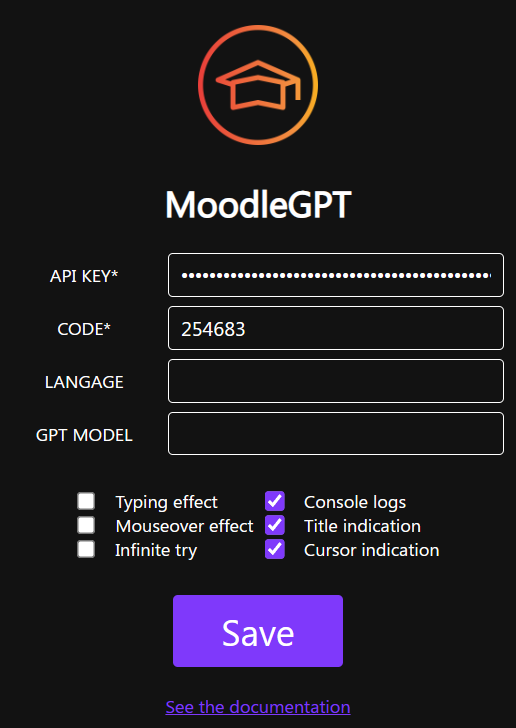
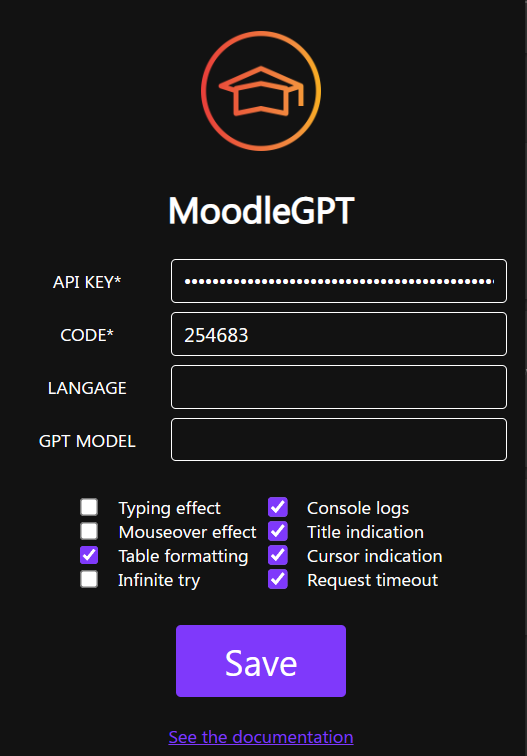
v1.0.0

diff --git a/extension/moodle-gpt.js b/extension/moodle-gpt.js
@@ -77,12 +77,15 @@
    */
   function getChatGPTResponse(config, question) {
       return __awaiter(this, void 0, void 0, function* () {
+          const controller = new AbortController();
+          const timeoutControler = setTimeout(() => controller.abort(), 10000);
           const req = yield fetch("https://api.openai.com/v1/chat/completions", {
               method: "POST",
               headers: {
                   "Content-Type": "application/json",
                   Authorization: `Bearer ${config.apiKey}`,
               },
+              signal: config.timeout ? controller.signal : null,
               body: JSON.stringify({
                   model: config.model && config.model !== "" ? config.model : "gpt-3.5-turbo",
                   messages: [{ role: "user", content: question }],
@@ -92,10 +95,39 @@
                   stop: null,
               }),
           });
+          clearTimeout(timeoutControler);
           const rep = yield req.json();
           const response = rep.choices[0].message.content;
           return normalizeText(response);
       });
+  }
+
+  /**
+   * Convert table to representating string table
+   * @param table
+   * @returns
+   */
+  function htmlTableToString(table) {
+      const tab = [];
+      const lines = Array.from(table.querySelectorAll("tr"));
+      const maxColumnsLength = [];
+      lines.map((line) => {
+          const cells = Array.from(line.querySelectorAll("td, th"));
+          const cellsContent = cells.map((cell, index) => {
+              var _a;
+              const content = (_a = cell.textContent) === null || _a === void 0 ? void 0 : _a.trim();
+              maxColumnsLength[index] = Math.max(maxColumnsLength[index] || 0, content.length || 0);
+              return content;
+          });
+          tab.push(cellsContent);
+      });
+      const lineSeparationSize = maxColumnsLength.reduce((a, b) => a + b) + tab[0].length + 1;
+      const lineSeparation = "\n" + Array(lineSeparationSize).fill("-").join("") + "\n";
+      const mappedTab = tab.map((line) => {
+          const mappedLine = line.map((content, index) => content.padEnd(maxColumnsLength[index], "\u00A0"));
+          return "|" + mappedLine.join("|") + "|";
+      });
+      return lineSeparation + mappedTab.join(lineSeparation) + lineSeparation;
   }
 
   /**
@@ -104,9 +136,17 @@
    * @param question
    * @returns
    */
-  function normalizeQuestion(langage, question) {
-      const finalQuestion = `Give a short response as possible for this question, reply in ${langage && langage !== ""
-        ? 'this langage "' + langage + '"'
+  function normalizeQuestion(config, questionContainer) {
+      let question = questionContainer.textContent;
+      if (config.table) {
+          //make table more readable for chat-gpt
+          const tables = questionContainer.querySelectorAll("table");
+          for (const table of tables) {
+              question = question.replace(table.textContent, htmlTableToString(table));
+          }
+      }
+      const finalQuestion = `Give a short response as possible for this question, reply in ${config.langage && config.langage !== ""
+        ? 'this langage "' + config.langage + '"'
         : "the following question langage"} and only show the result: 
       ${question} 
       (If you have to choose between multiple results only show the corrects one, separate them with new line and take the same text as the question)`;
@@ -297,15 +337,21 @@
           if (config.cursor)
               hiddenButton.style.cursor = "wait";
           (_a = form.querySelector(".accesshide")) === null || _a === void 0 ? void 0 : _a.remove();
-          const question = normalizeQuestion(config.langage, form.textContent);
+          const question = normalizeQuestion(config, form);
           const inputList = form.querySelectorAll(query);
-          const response = yield getChatGPTResponse(config, question);
+          const response = yield getChatGPTResponse(config, question).catch((error) => ({
+              error,
+          }));
+          if (config.cursor)
+              hiddenButton.style.cursor = config.infinite ? "pointer" : "initial";
+          if (typeof response === "object" && "error" in response) {
+              console.error(response.error);
+              return;
+          }
           if (config.logs) {
               Logs.question(question);
               Logs.response(response);
           }
-          if (config.cursor)
-              hiddenButton.style.cursor = config.infinite ? "pointer" : "initial";
           const handlers = [
               handleTextbox,
               handleNumber,

diff --git a/src/utils/html-table-to-string.ts b/src/utils/html-table-to-string.ts
@@ -1,0 +1,38 @@
+/**
+ * Convert table to representating string table
+ * @param table
+ * @returns
+ */
+function htmlTableToString(table: HTMLTableElement) {
+  const tab: string[][] = [];
+  const lines = Array.from(table.querySelectorAll("tr"));
+  const maxColumnsLength: number[] = [];
+  lines.map((line) => {
+    const cells = Array.from(line.querySelectorAll("td, th"));
+    const cellsContent = cells.map((cell, index) => {
+      const content = cell.textContent?.trim();
+      maxColumnsLength[index] = Math.max(
+        maxColumnsLength[index] || 0,
+        content.length || 0
+      );
+      return content;
+    });
+    tab.push(cellsContent);
+  });
+
+  const lineSeparationSize =
+    maxColumnsLength.reduce((a, b) => a + b) + tab[0].length + 1;
+  const lineSeparation =
+    "\n" + Array(lineSeparationSize).fill("-").join("") + "\n";
+
+  const mappedTab = tab.map((line) => {
+    const mappedLine = line.map((content, index) =>
+      content.padEnd(maxColumnsLength[index], "\u00A0")
+    );
+    return "|" + mappedLine.join("|") + "|";
+  });
+
+  return lineSeparation + mappedTab.join(lineSeparation) + lineSeparation;
+}
+
+export default htmlTableToString;

diff --git a/src/core/normalize-question.ts b/src/core/normalize-question.ts
@@ -1,5 +1,6 @@
 import Config from "../types/config";
 import normalizeText from "../utils/normalize-text";
+import htmlTableToString from "../utils/html-table-to-string";
 
 /**
  * Normalize the question and add sub informations
@@ -7,10 +8,20 @@ import normalizeText from "../utils/normalize-text";
  * @param question
  * @returns
  */
-function normalizeQuestion(langage: Config["langage"], question: string) {
+function normalizeQuestion(config: Config, questionContainer: HTMLElement) {
+  let question = questionContainer.textContent;
+
+  if (config.table) {
+    //make table more readable for chat-gpt
+    const tables = questionContainer.querySelectorAll("table");
+    for (const table of tables) {
+      question = question.replace(table.textContent, htmlTableToString(table));
+    }
+  }
+
   const finalQuestion = `Give a short response as possible for this question, reply in ${
-    langage && langage !== ""
-      ? 'this langage "' + langage + '"'
+    config.langage && config.langage !== ""
+      ? 'this langage "' + config.langage + '"'
       : "the following question langage"
   } and only show the result: 
       ${question} 

diff --git a/extension/popup/index.js b/extension/popup/index.js
@@ -9,6 +9,8 @@ const inputsCheckbox = [
   "typing",
   "mouseover",
   "infinite",
+  "table",
+  "timeout",
 ];
 
 function showMessage(messageTxt, valide) {
@@ -23,9 +25,10 @@ saveBtn.addEventListener("click", function () {
   const [apiKey, code, langage, model] = inputsText.map((selector) =>
     document.querySelector("#" + selector).value.trim()
   );
-  const [logs, title, cursor, typing, mouseover, infinite] = inputsCheckbox.map(
-    (selector) => document.querySelector("#" + selector).checked
-  );
+  const [logs, title, cursor, typing, mouseover, infinite, table, timeout] =
+    inputsCheckbox.map(
+      (selector) => document.querySelector("#" + selector).checked
+    );
 
   if (!apiKey || !code) {
     showMessage("Please comple all the form");
@@ -49,6 +52,8 @@ saveBtn.addEventListener("click", function () {
       typing,
       mouseover,
       infinite,
+      table,
+      timeout,
     },
   });
 

diff --git a/src/core/reply.ts b/src/core/reply.ts
@@ -26,18 +26,27 @@ async function reply(
 
   form.querySelector(".accesshide")?.remove();
 
-  const question = normalizeQuestion(config.langage, form.textContent);
+  const question = normalizeQuestion(config, form);
   const inputList: NodeListOf<HTMLElement> = form.querySelectorAll(query);
 
-  const response = await getChatGPTResponse(config, question);
+  const response = await getChatGPTResponse(config, question).catch(
+    (error) => ({
+      error,
+    })
+  );
+
+  if (config.cursor)
+    hiddenButton.style.cursor = config.infinite ? "pointer" : "initial";
+
+  if (typeof response === "object" && "error" in response) {
+    console.error(response.error);
+    return;
+  }
 
   if (config.logs) {
     Logs.question(question);
     Logs.response(response);
   }
-
-  if (config.cursor)
-    hiddenButton.style.cursor = config.infinite ? "pointer" : "initial";
 
   const handlers = [
     handleTextbox,

diff --git a/src/core/get-response.ts b/src/core/get-response.ts
@@ -11,12 +11,15 @@ async function getChatGPTResponse(
   config: Config,
   question: string
 ): Promise<string> {
+  const controller = new AbortController();
+  const timeoutControler = setTimeout(() => controller.abort(), 10000);
   const req = await fetch("https://api.openai.com/v1/chat/completions", {
     method: "POST",
     headers: {
       "Content-Type": "application/json",
       Authorization: `Bearer ${config.apiKey}`,
     },
+    signal: config.timeout ? controller.signal : null,
     body: JSON.stringify({
       model:
         config.model && config.model !== "" ? config.model : "gpt-3.5-turbo",
@@ -27,6 +30,7 @@ async function getChatGPTResponse(
       stop: null,
     }),
   });
+  clearTimeout(timeoutControler);
   const rep = await req.json();
   const response = rep.choices[0].message.content;
   return normalizeText(response);

diff --git a/extension/popup/index.html b/extension/popup/index.html
@@ -46,6 +46,10 @@
             <label for="mouseover">Mouseover effect</label>
           </div>
           <div class="line">
+            <input id="table" type="checkbox" checked />
+            <label for="table">Table formatting</label>
+          </div>
+          <div class="line">
             <input id="infinite" type="checkbox" />
             <label for="infinite">Infinite try</label>
           </div>
@@ -62,6 +66,10 @@
           <div class="line">
             <input id="cursor" type="checkbox" checked />
             <label for="cursor">Cursor indication</label>
+          </div>
+          <div class="line">
+            <input id="timeout" type="checkbox" checked />
+            <label for="timeout">Request timeout</label>
           </div>
         </div>
       </div>

diff --git a/src/types/config.d.ts b/src/types/config.d.ts
@@ -9,6 +9,8 @@ type Config = {
   cursor?: boolean;
   logs?: boolean;
   title?: boolean;
+  table?: boolean;
+  timeout?: boolean;
 };
 
 export default Config;

diff --git a/README.md b/README.md
@@ -43,14 +43,27 @@ Type back the <b>code</b> on the keyboard and the code will be removed from the 
 - <b>Cursor indication</b>: show a pointer cursor and a hourglass to know when the request is finished.
 - <b>Title indication</b>: show some informations into the title to know for example if the code have been injected.
   <br/> ![Injected](./assets/title-injected.png)
-- <b>Infinite try</b>: click as much as you want on the question (don't forget to reset the question).
 - <b>Console logs</b>: show logs into the console.
   <br/><img src="./assets/logs.png" alt="Logs" width="250">
+- <b>Request timeout</b>: If the request is too long it will be abort after 10seconds.
 - <b>Typing effect</b>: create a typing effect for text. Type any text and it will be replaced by the correct one. If you want to stop it press <b>Backspace</b> key.
   <br/> ![Typing](./assets/typing.gif)
 - <b>Mouseover effect</b>: you will need to hover (or click for select) the question response to complete it automaticaly.
   <br/> ![Mouseover](./assets/mouseover.gif)
   <br/> ![Mouseover2](./assets/mouseover2.gif)
+- <b>Table formatting</b>: Format table from the question to make it more readable for CHAT-GPT.
+
+```
+--------------------------------
+|        |name |birthDate |cars|
+--------------------------------
+|Person 1|Yvick|15/08/1999|yes |
+--------------------------------
+|Person 2|Yann |19/01/2000|no  |
+--------------------------------
+```
+
+- <b>Infinite try</b>: click as much as you want on the question (don't forget to reset the question).
 
 ## Examples
 
